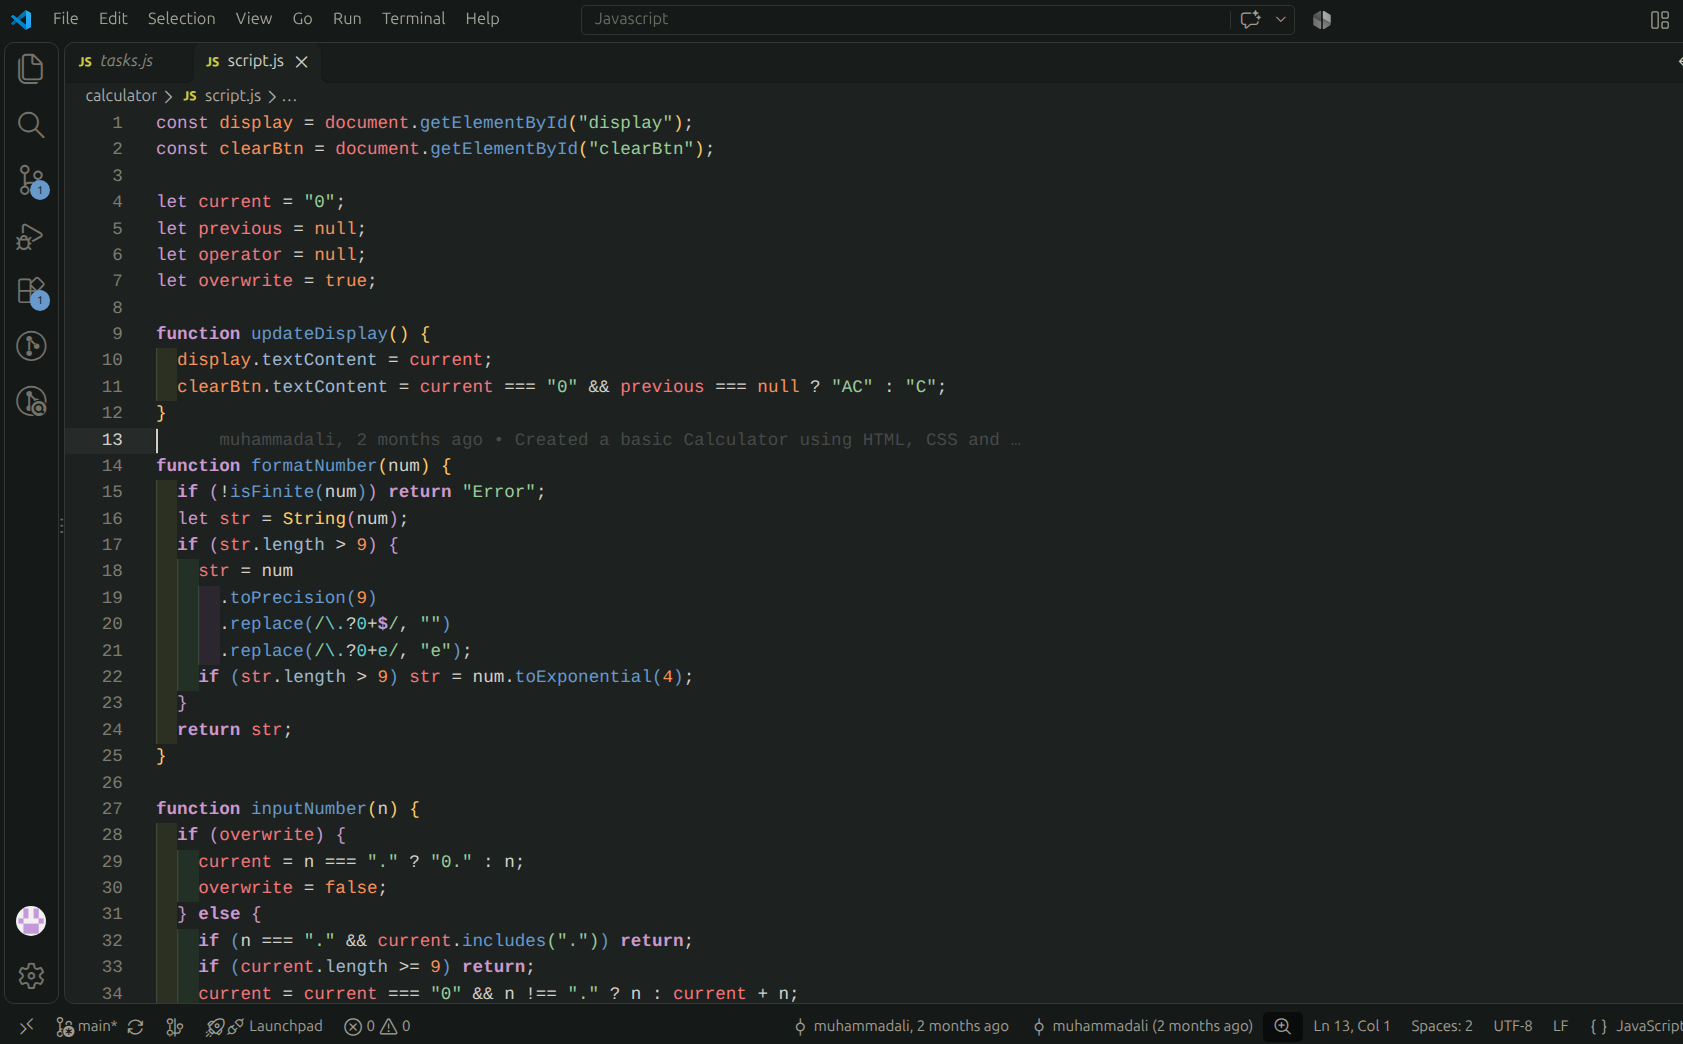
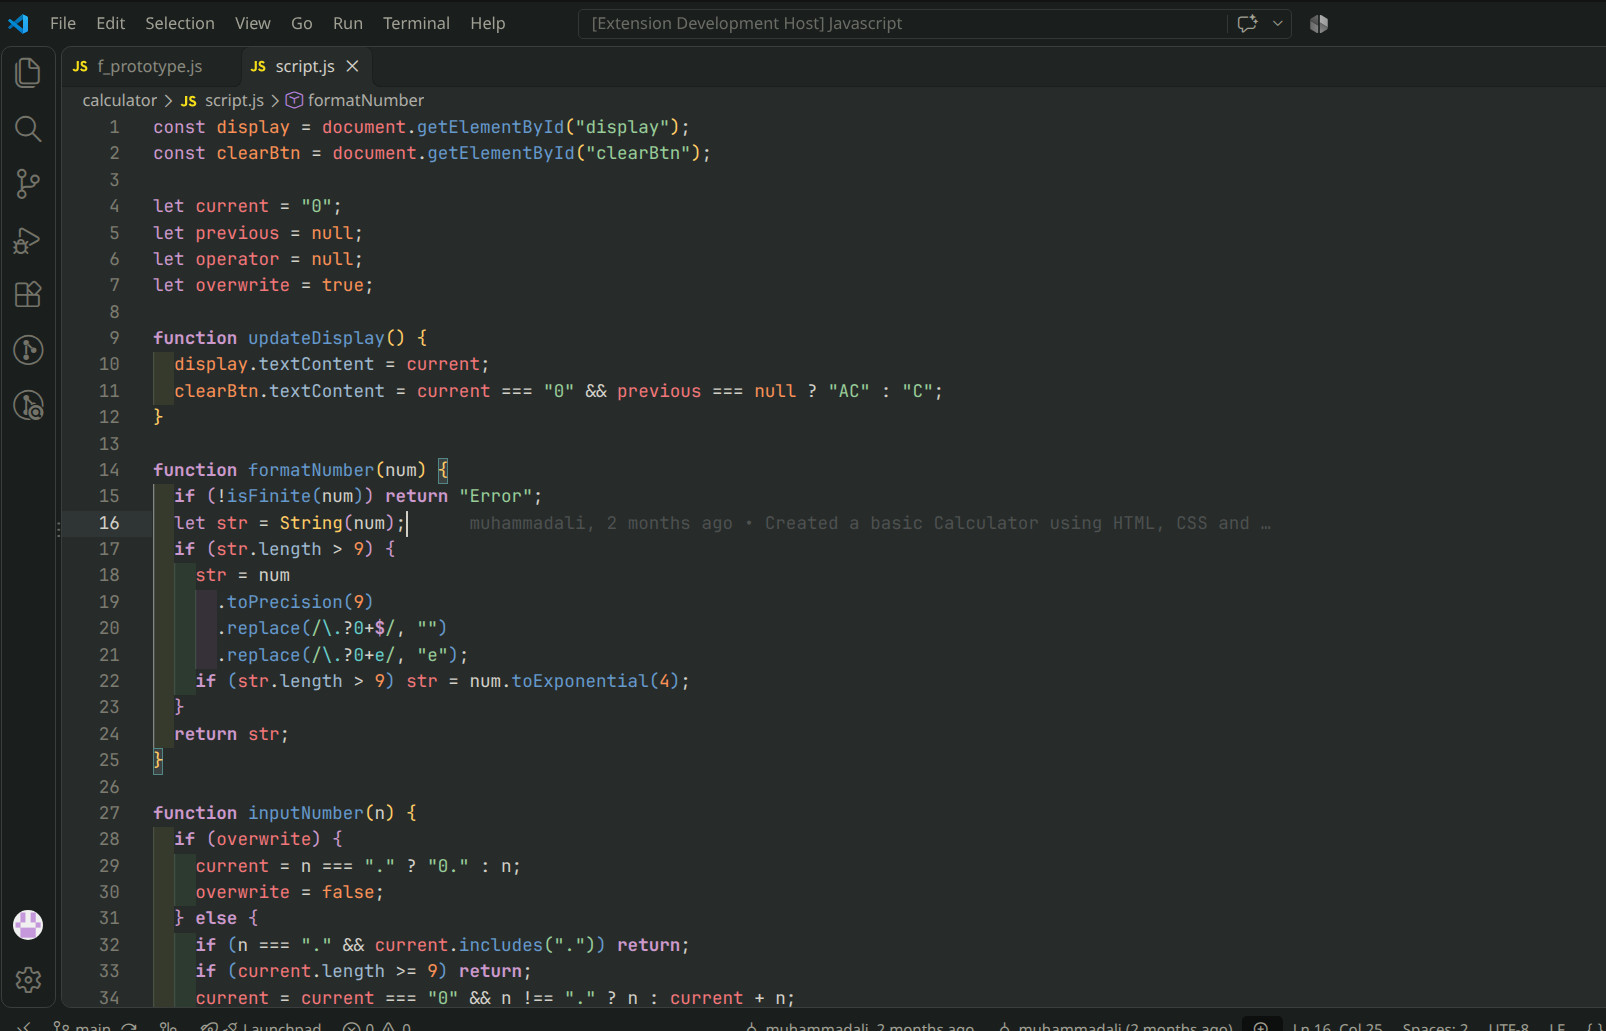
reduced the contrast of adones-minimal-dark

diff --git a/CHANGELOG.md b/CHANGELOG.md
@@ -2,6 +2,10 @@
 
 All notable changes to the Adones Theme project will be documented in this file.
 
+## [1.2.2] - [11/24/2026]
+
+- Change the Adones Minimal Dark background to reduce contrast just a little bit to make it easier on eyes
+
 ## [1.2.1] - [11/23/2026]
 
 - Added new theme variant (Adones Minimal Dark)
